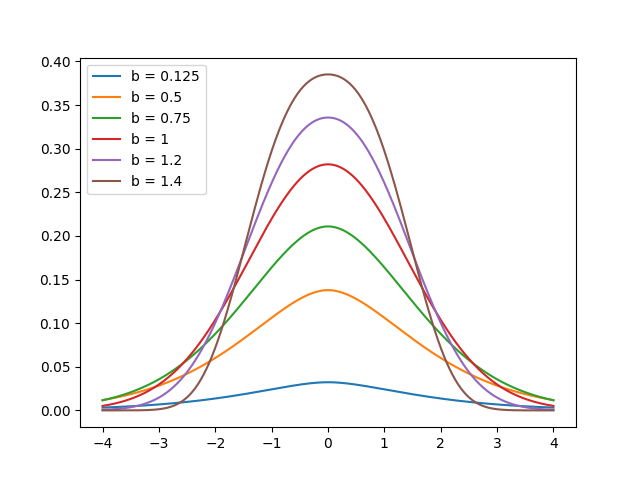
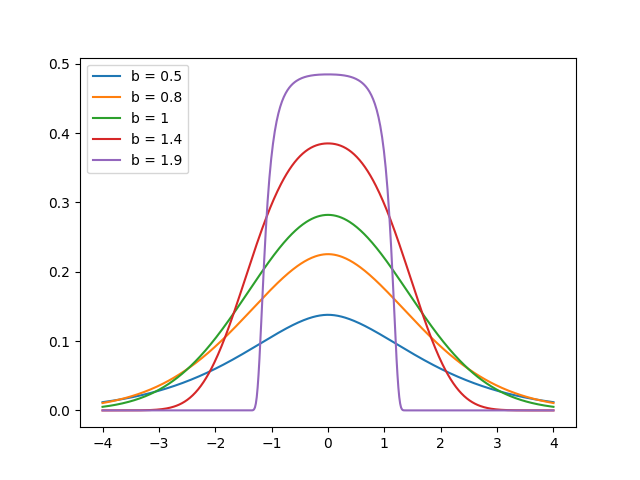
fixed the script. its is very uneligant but it works. I am able to plot the fundamental solution with time derivitive very close to 2

diff --git a/codes/nonhomogt1.py b/codes/nonhomogt1.py
@@ -1,0 +1,93 @@
+import numpy as np
+from scipy.special import gamma, factorial, logsumexp
+import matplotlib.pyplot as plt
+import mpmath as mp
+from mpmath import *
+
+#def Y_2b01(t,X,b):
+#    K = 150
+#    Y = np.zeros(n+1)
+#    for x in range(len(X)):
+#        m_i = np.zeros(K)
+#        for i in range(K):
+#            m_i[i] = (((-1) ** (2*i)) * (abs(X[x]) / (t ** (b/2)))** (2*i)) / \
+#            (factorial(2*i) * gamma(b - (((2*i) + 1) * (b / 2))))
+#            sum_i = ((t ** ((b / 2) - 1)) / 2) * m_i
+#            value_x = sum(sum_i)
+#        Y[x] = value_x
+#    return(Y) 
+#
+
+# try using mpmath to find the sum 
+
+def Y(i):
+    if b * ((i - 1) / 2) == int(b * ((i - 1) / 2)):
+        val = 0
+    else:
+        val = (((-1) ** (i) * (abs(x) / (t ** (b/2)))**(i)) / \
+        (mp.fac(i) * mp.gamma(b * ((1 -i)/2)))) * \
+        ((t ** ((b / 2) - 1)) / 2)
+    return(val)
+
+for b in [.5, .8, 1, 1.4]:
+    xn = 4
+    n = 500
+    x_axis = np.linspace(-1 * xn, xn, n+1) 
+
+    Yvalue = np.zeros(n + 1)
+    b = b
+    t = 1
+    ind = 0
+    for x in x_axis:
+        x = x 
+        Yvalue[ind] = mp.nsum(Y, [0, 200])
+        ind = ind + 1
+    
+    plt.plot(x_axis, Yvalue, label='b = {}'.format(b))
+    plt.legend(loc="upper left")
+
+
+for b in [1.9]:
+    # x axis
+    x0 = 0
+    xn = 4
+    
+    # partition the x axis
+    n = 250
+    x_axis_pos = np.linspace(x0, xn, n + 1) 
+    x_axis = np.linspace(-1 * xn, xn, 2*n + 1)
+
+    Yvalue_pos = np.zeros(n + 1)
+    b = b
+    t = 1
+    ind = 0
+    for x in x_axis_pos:
+        x = x
+        if ind == 0:
+            Yvalue_pos[ind] = mp.nsum(Y, [0, inf])
+        elif ind > 0 and mp.nsum(Y, [0, inf]) <= Yvalue_pos[ind -1] and mp.nsum(Y, [0, inf]) > 0:
+            Yvalue_pos[ind] = mp.nsum(Y, [0, inf])
+        else:
+            Yvalue_pos[ind] = Yvalue_pos[ind -1]
+        ind = ind + 1
+    
+    Yvalue_neg = np.flip(Yvalue_pos)
+    Yvalue = np.concatenate((Yvalue_neg, Yvalue_pos[1:]))
+    
+    plt.plot(x_axis, Yvalue , label='b = {}'.format(b))
+    plt.legend(loc="upper left")
+
+
+
+# generate one plot
+# specify b
+#b = 1.45
+#plt.plot(x_axis, Y_2b01(1, x_axis, b), label='b = {}'.format(b))
+#plt.legend(loc="upper left")
+
+# generate multiple plots 
+#for b in [1/8, 1/2, 3/4, 1, 1.2, 1.4]:
+#    plt.plot(x_axis, Y_2b01(1, x_axis, b), label='b = {}'.format(b))
+#plt.legend(loc="upper left")
+
+plt.show()
